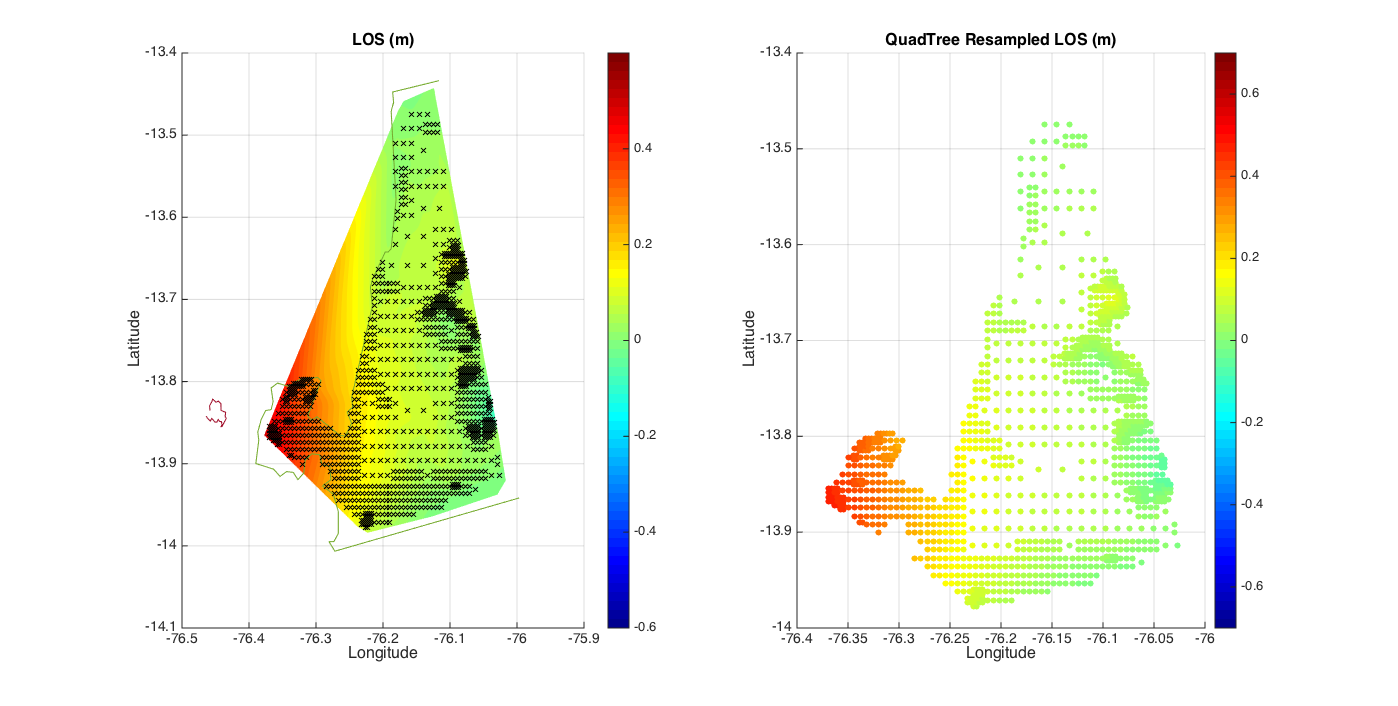
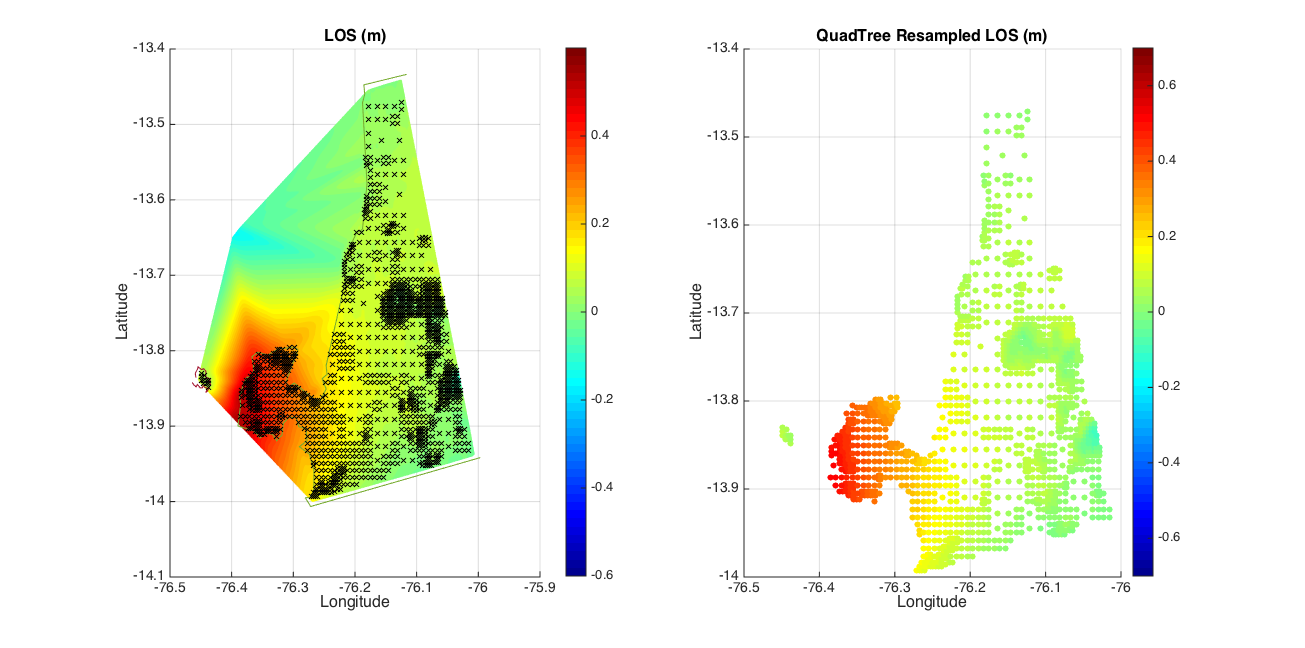
Wiki updates

diff --git a/examples/pisco/quadtree_los_pisco.m b/examples/pisco/quadtree_los_pisco.m
@@ -4,7 +4,7 @@ format compact
 
 %read data
 insar=csvread('/Users/dmelgar/Pisco2007/InSAR/DataFromSAR_latlon.csv');
-idecimate=1:100000:length(insar);
+idecimate=1:1000:length(insar);
 
 lon =insar(idecimate,2);
 lat=insar(idecimate,1);
@@ -13,7 +13,7 @@ los=insar(idecimate,3);
 %QuadTree parameters, these are set by trial and error
 mindim=16
 maxdim=256
-thresh=0.02
+thresh=0.025
 
 lon_i=linspace(min(lon),max(lon),2048);
 lat_i=linspace(min(lat),max(lat),2048);
